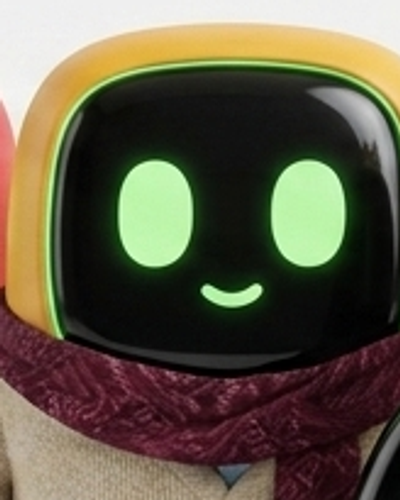
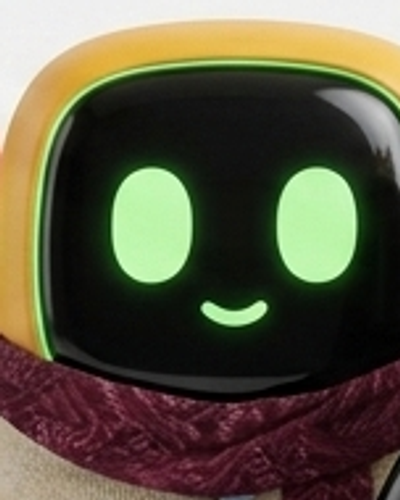
Make employee profiles consistent, and fix mobile overflow they exposed
The profile hero mixed two treatments: the five characters with a solo
render showed a full figure floating in a white box, while the other four
showed a head crop squashed into a square and cut off at the top. Side by
side they read as two different products.

All nine now use the same 4:5 head-and-torso portrait at the same size, on
a white panel ringed in the character's colour. White rather than a tinted
wash because the renders carry their own white background, which showed as
scruffy corners against any tint. The unused -full.png variants and the
`portrait` field are gone, and the lineup crops are tightened a little
further to trim the last neighbour slivers.

Checking the result on a phone turned up two real layout bugs:

- The profile panel stretched the full width in the stacked layout, with
  the fixed-width portrait leaving a white gap beside it.
- Cards in a grid overflowed the viewport. A grid item defaults to
  min-width:auto, so one whitespace-nowrap chip inside a card forced the
  whole track 90px wider than the phone. .card now carries min-w-0.
- The pricing and bench tables pushed past the screen; they now scroll
  inside their own card.

The overflow check that was supposed to catch these could not: it measured
documentElement.scrollWidth, but main is its own scroll container, so
overflow inside it never widened the document. It now measures every
element against the viewport, skipping deliberate horizontal scrollers,
[…]

diff --git a/mote/src/routes/EmployeePage.tsx b/mote/src/routes/EmployeePage.tsx
@@ -1,7 +1,7 @@
 import { Link, useParams } from 'react-router-dom';
 import { byId } from '../data/roster';
 import { useMote } from '../store/useMote';
-import { Avatar, LeaderBadge } from '../components/Avatar';
+import { LeaderBadge } from '../components/Avatar';
 import { Crown } from '../components/Crown';
 import { TaskRow } from '../components/TaskList';
 import { Button, Card, Chip, Row, Toggle } from '../components/ui';
@@ -25,16 +25,23 @@ export function EmployeePage() {
       </Link>
 
       <header className="mb-7 flex flex-col gap-5 sm:flex-row sm:items-start">
-        {/* The five characters with a solo render get the full figure here. */}
-        {employee.portrait ? (
+        {/* Every profile uses the same 4:5 head-and-torso portrait. A full-figure
+            render for some and a squared-off head crop for others made the roster
+            look like two different products. The panel is white because the
+            renders carry their own white background — any wash showed as scruffy
+            corners — so the character's colour comes back as a ring instead. */}
+        <div
+          className="w-fit shrink-0 self-start overflow-hidden rounded-xl2 bg-white"
+          style={{ boxShadow: `0 0 0 2px ${employee.tint}` }}
+        >
           <img
-            src={employee.portrait}
+            src={employee.avatar}
             alt={employee.name}
-            className="h-[168px] w-[168px] shrink-0 rounded-xl2 bg-canvas-sunk object-cover"
+            width={176}
+            height={220}
+            className="h-[220px] w-[176px] object-cover"
           />
-        ) : (
-          <Avatar id={employee.id} size={168} />
-        )}
+        </div>
 
         <div className="min-w-0 flex-1">
           <div className="flex flex-wrap items-baseline gap-2.5">
@@ -77,7 +84,7 @@ export function EmployeePage() {
       </header>
 
       <div className="grid gap-4 2xl:grid-cols-[1.4fr_1fr]">
-        <div className="space-y-4">
+        <div className="min-w-0 space-y-4">
           <Card className="px-5 py-1">
             <div className="border-b hairline py-4 text-[11px] font-medium uppercase tracking-wider text-shell-ink/35">
               What {employee.name} owns

diff --git a/mote/src/data/roster.ts b/mote/src/data/roster.ts
@@ -15,7 +15,6 @@ export const ROSTER: Employee[] = [
     role: 'Chief of staff',
     tint: '#2fd463',
     avatar: '/team/mote.png',
-    portrait: '/team/mote-full.png',
     blurb: 'Takes the job, decides whose it is, and brings you anything that needs your yes.',
     status: 'hireable',
     leader: true,
@@ -94,7 +93,6 @@ export const ROSTER: Employee[] = [
     role: 'Analyst',
     tint: '#6f9e78',
     avatar: '/team/sage.png',
-    portrait: '/team/sage-full.png',
     blurb: 'Turns the week into a number, and tells you which number actually moved.',
     status: 'hireable',
     skills: [
@@ -134,7 +132,6 @@ export const ROSTER: Employee[] = [
     role: 'Media',
     tint: '#a855f7',
     avatar: '/team/juno.png',
-    portrait: '/team/juno-full.png',
     blurb: 'Cuts the clip, writes the captions, files it where the rest of the team can find it.',
     status: 'onboarding',
     joining: 'October',
@@ -155,7 +152,6 @@ export const ROSTER: Employee[] = [
     role: 'Operations',
     tint: '#64748b',
     avatar: '/team/rig.png',
-    portrait: '/team/rig-full.png',
     blurb: 'Keeps the tools talking to each other, and fixes the one that stopped.',
     status: 'onboarding',
     joining: 'October',
@@ -176,7 +172,6 @@ export const ROSTER: Employee[] = [
     role: 'Data plumbing',
     tint: '#8b8f96',
     avatar: '/team/ash.png',
-    portrait: '/team/ash-full.png',
     blurb: '"Move this from app A to app B, forty times, without me." That is Ash\'s whole personality.',
     status: 'onboarding',
     joining: 'November',

diff --git a/mote/src/routes/Plan.tsx b/mote/src/routes/Plan.tsx
@@ -78,7 +78,8 @@ export function PlanPage() {
       </div>
 
       <Card className="overflow-hidden">
-        <table className="w-full text-[13.5px]">
+        <div className="overflow-x-auto">
+        <table className="w-full min-w-[560px] text-[13.5px]">
           <thead>
             <tr className="border-b hairline text-[11px] uppercase tracking-wider text-shell-ink/35">
               <th className="px-5 py-3 text-left font-medium">What you get</th>
@@ -103,6 +104,7 @@ export function PlanPage() {
             ))}
           </tbody>
         </table>
+        </div>
       </Card>
 
       <div className="mt-5 max-w-2xl space-y-2 text-[13px] muted">

diff --git a/mote/src/routes/Performance.tsx b/mote/src/routes/Performance.tsx
@@ -16,7 +16,8 @@ export function Performance() {
       />
 
       <Card className="overflow-hidden">
-        <table className="w-full text-[13.5px]">
+        <div className="overflow-x-auto">
+        <table className="w-full min-w-[560px] text-[13.5px]">
           <thead>
             <tr className="border-b hairline text-[11px] uppercase tracking-wider text-shell-ink/35">
               <th className="px-5 py-3 text-left font-medium">Employee</th>
@@ -53,6 +54,7 @@ export function Performance() {
             )}
           </tbody>
         </table>
+        </div>
       </Card>
 
       <div className="mt-5 max-w-2xl space-y-2 text-[13px] muted">

diff --git a/mote/src/index.css b/mote/src/index.css
@@ -17,7 +17,9 @@
 
 @layer components {
   .card {
-    @apply rounded-xl2 border border-black/[.06] bg-white shadow-card;
+    /* min-w-0: cards live in grids, and a grid item defaults to min-width:auto,
+       so one nowrap chip inside can force the whole track wider than the phone. */
+    @apply min-w-0 rounded-xl2 border border-black/[.06] bg-white shadow-card;
   }
   .muted {
     @apply text-shell-ink/55;

diff --git a/mote/src/lib/types.ts b/mote/src/lib/types.ts
@@ -24,8 +24,6 @@ export type Employee = {
   tint: string;
   /** 4:5 head-and-torso portrait, framed to match across the team. */
   avatar: string;
-  /** Full-figure render, where one exists. Profile pages only. */
-  portrait?: string;
   /** One line, in the employee's own voice. */
   blurb: string;
   status: EmployeeStatus;
